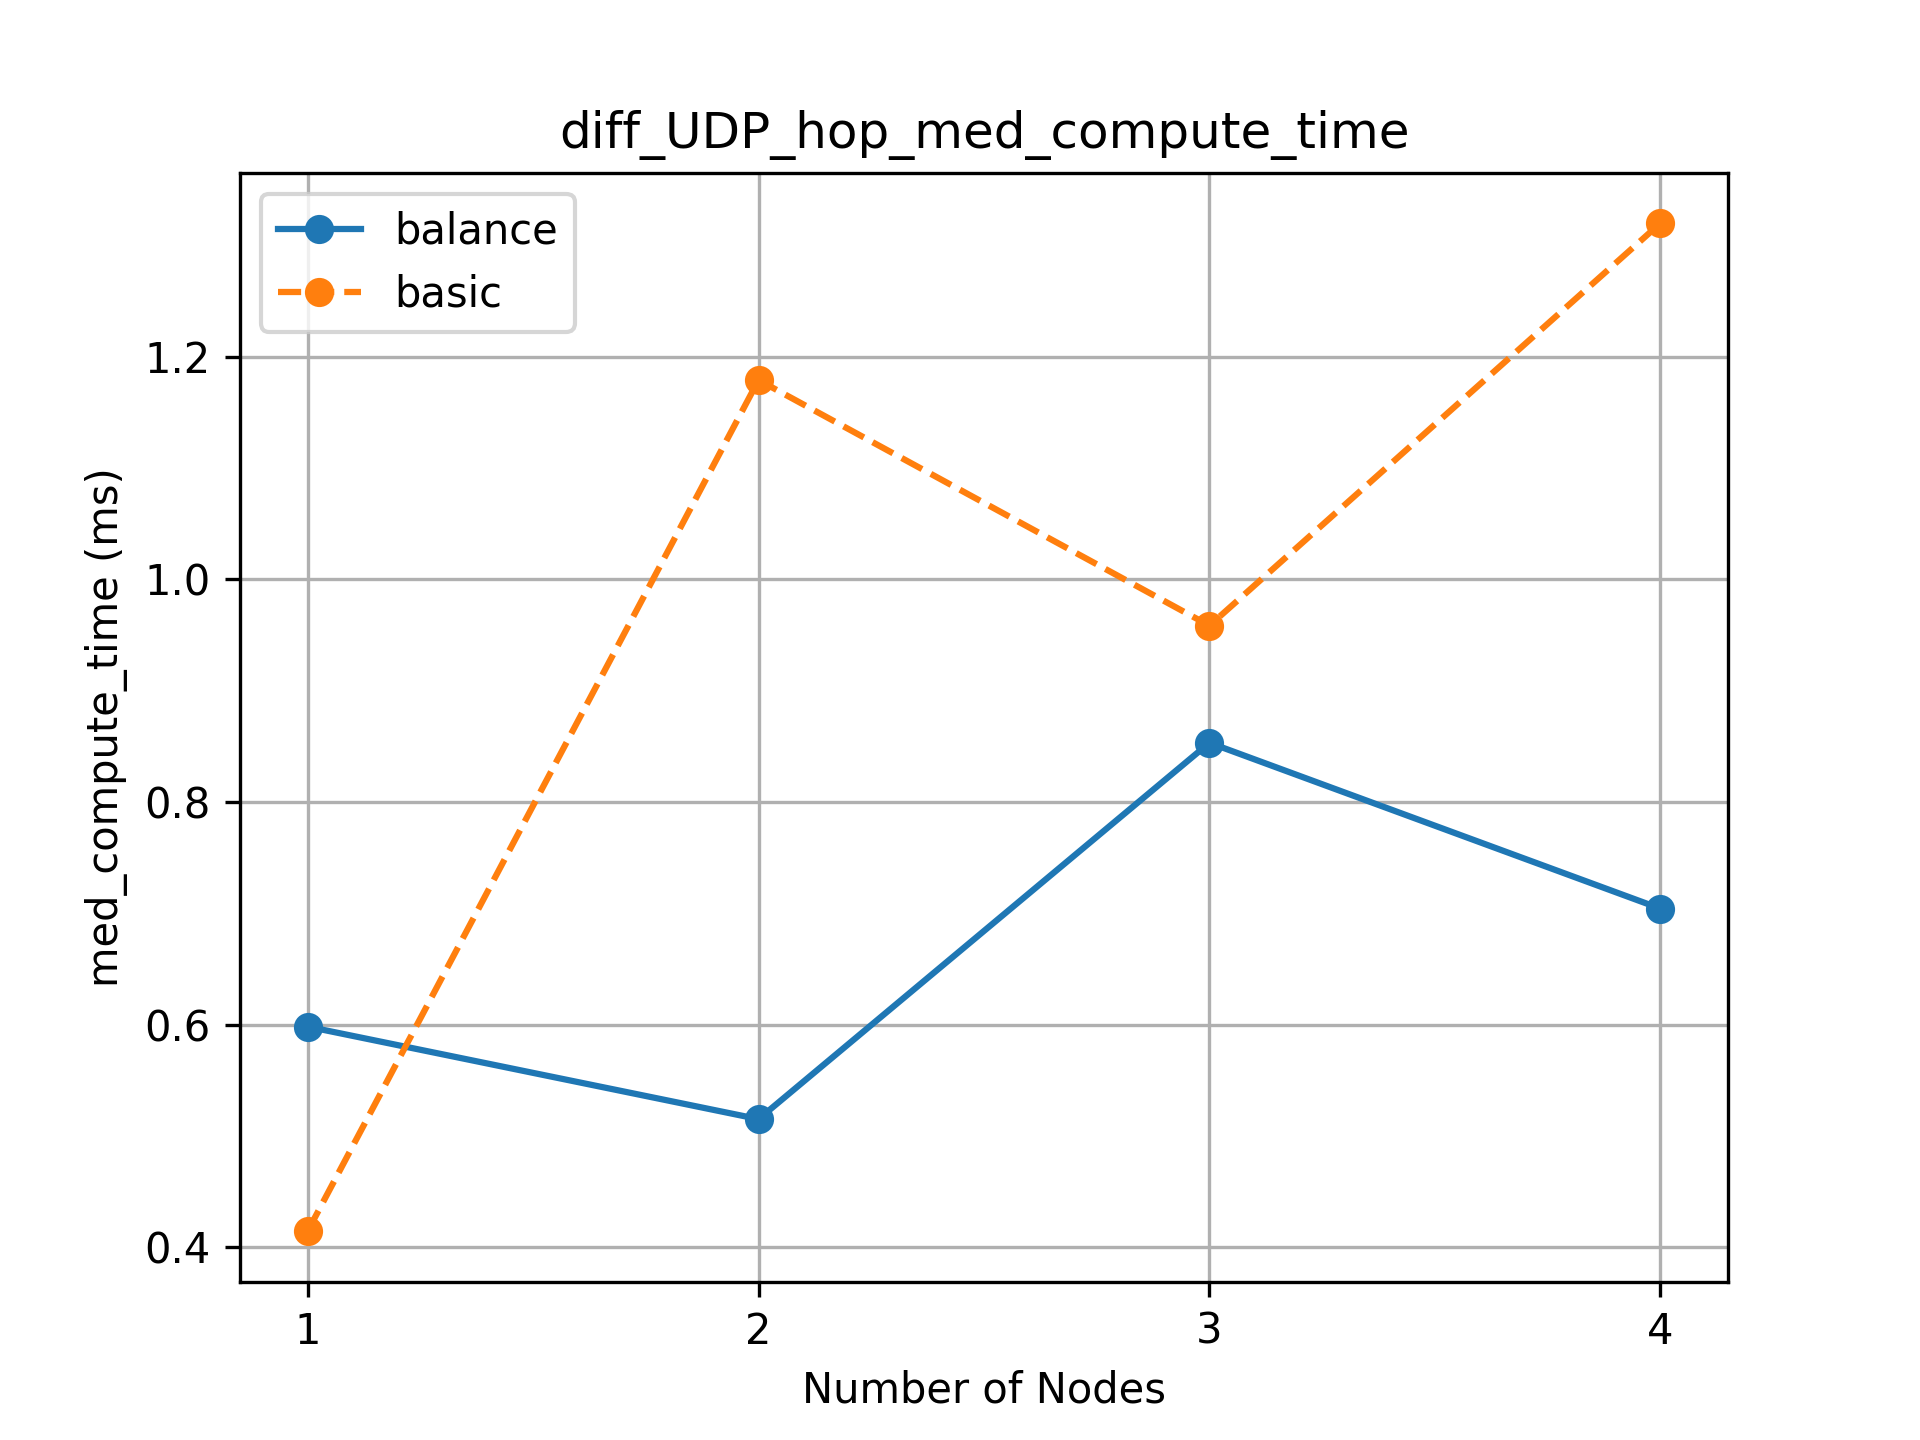
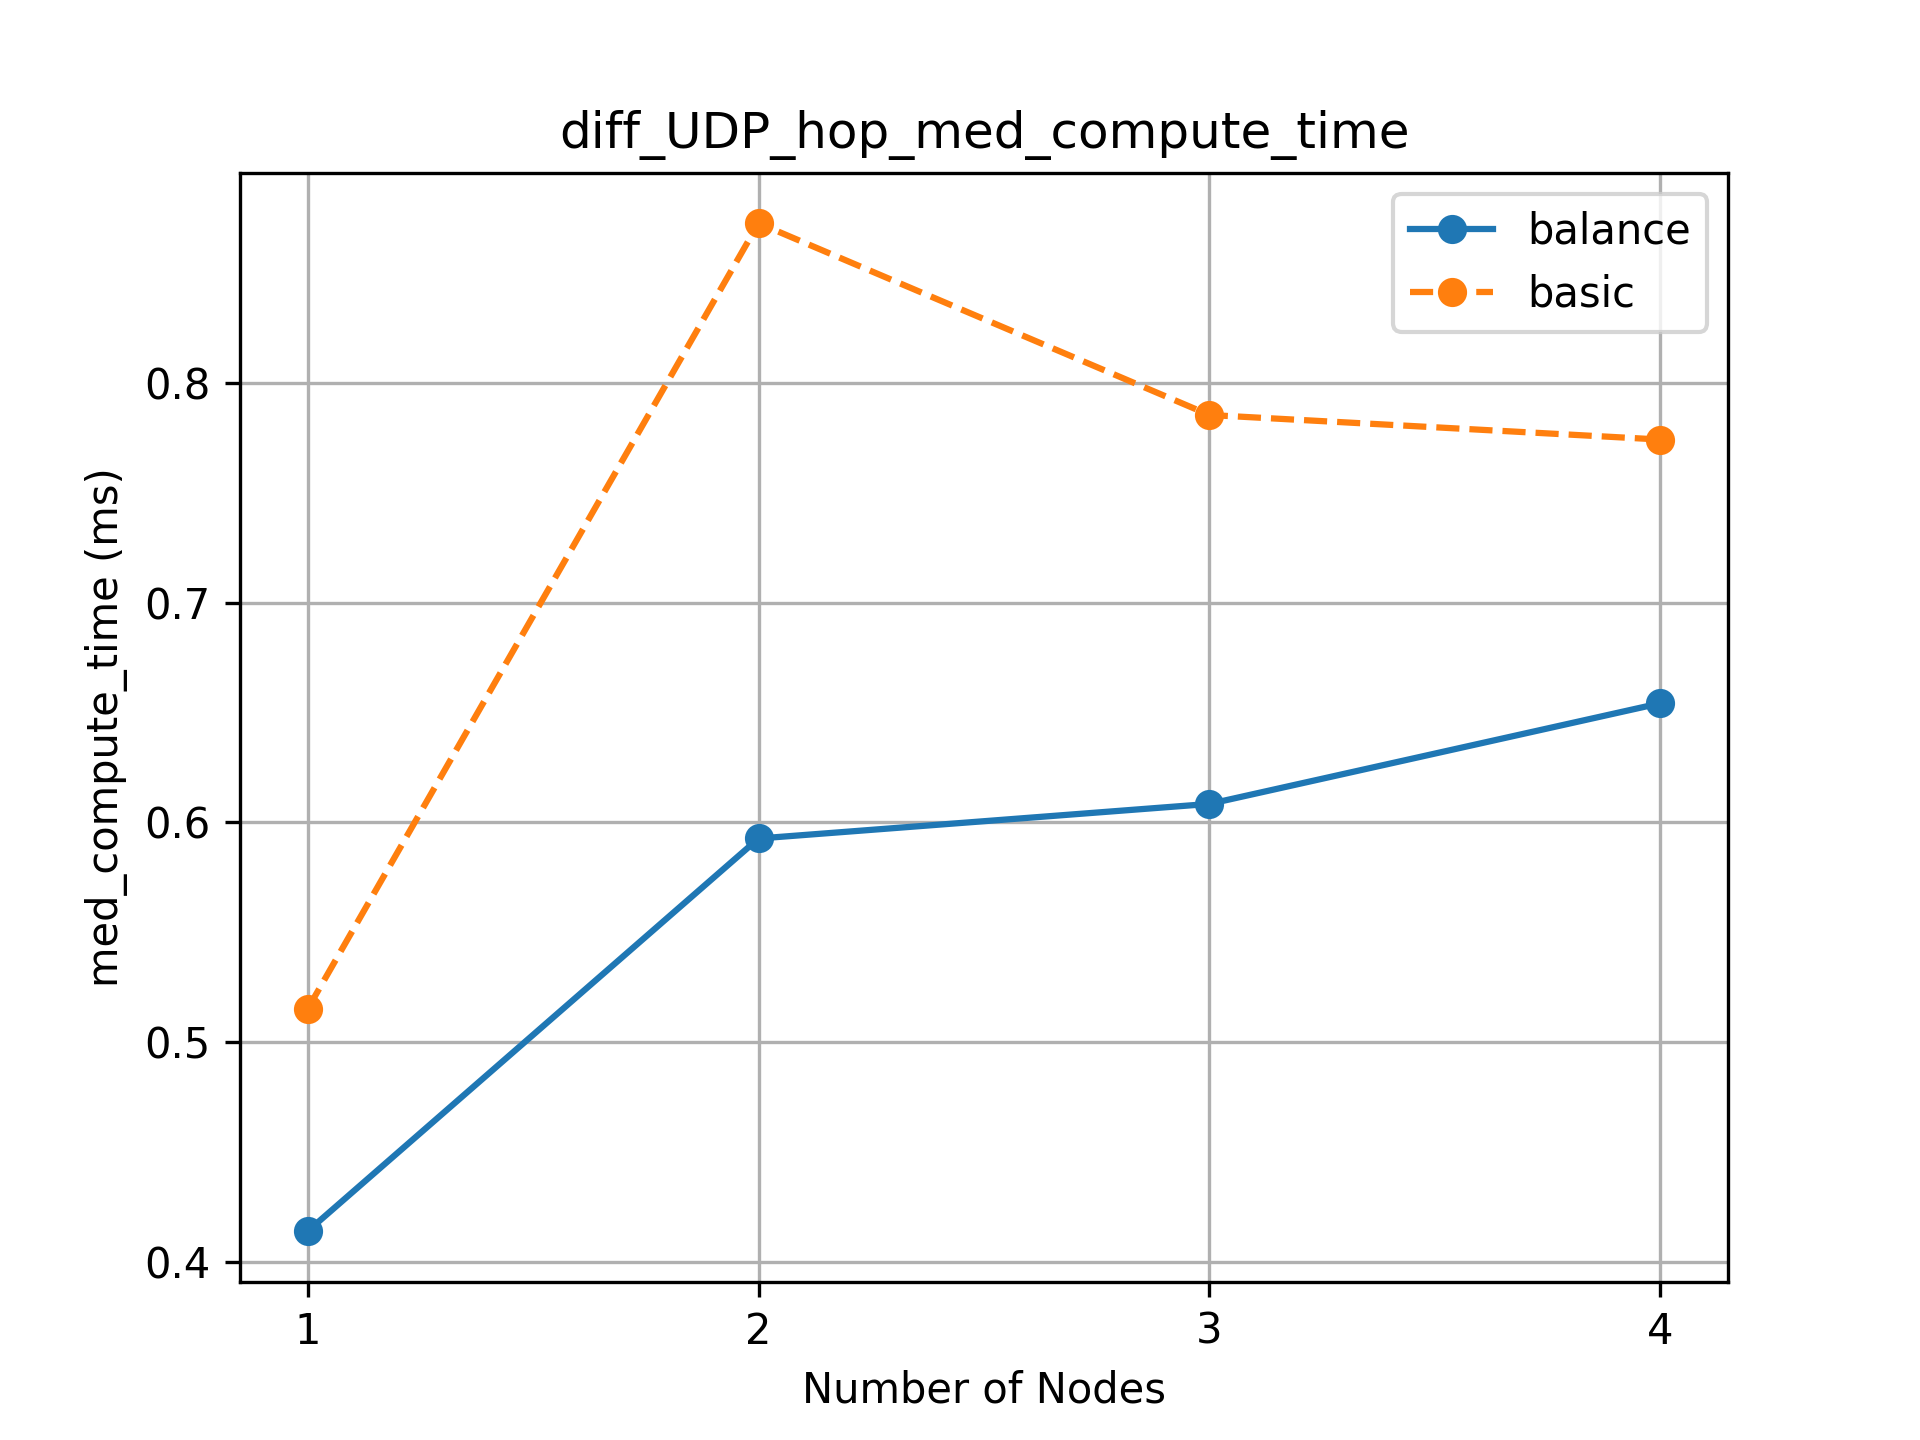
1.0 update result

diff --git a/main.cc b/main.cc
@@ -152,7 +152,7 @@ main(int argc, char* argv[])
     }
     else
     {
-        int round = 1;
+        int round = 100;
         fullSimulation(round);
     }
     return 0;
